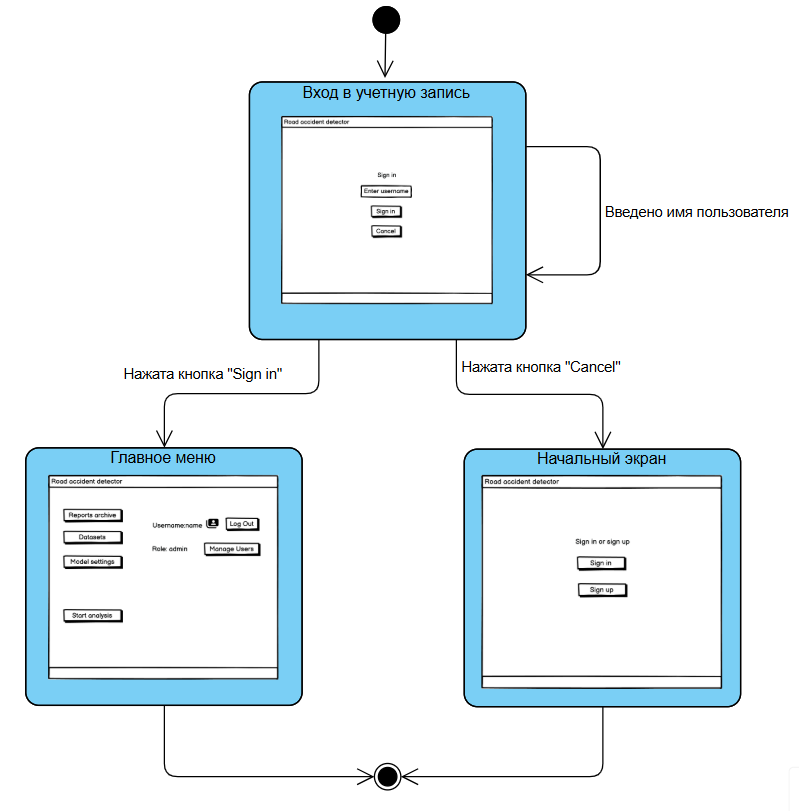
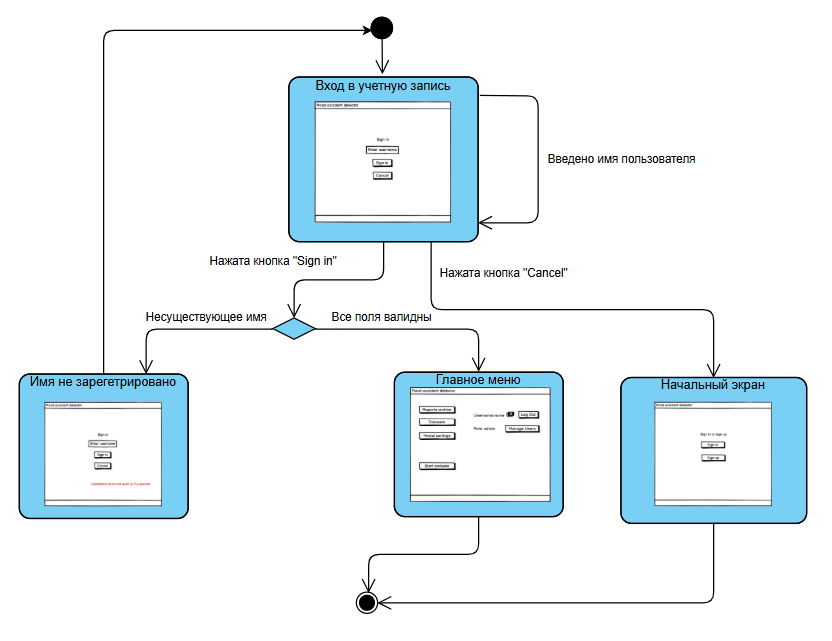
state 2 added

diff --git a/docs/diagrams/state.md b/docs/diagrams/state.md
@@ -8,4 +8,6 @@
 6 [Генерация отчета](#6-генерация-отчета-1)  
 
 ## 1 Вход в систему
-![](../diagrams/images/sis_1.png)
+![](../diagrams/images/sis_1.png)  
+## 2 Регистрация в системе
+![](../diagrams/images/sis_2.png)
